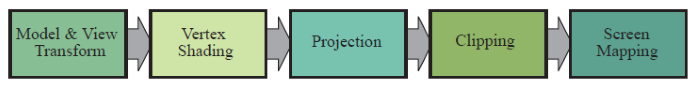
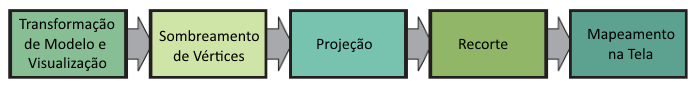
Improves pipeline

diff --git a/classes/pipeline/README.md b/classes/pipeline/README.md
@@ -23,31 +23,36 @@
 ---
 ## Um _pipeline_
 
-1. Divisão de trabalho em etapas
-1. As etapas são executadas em paralelo
-1. Exemplo: pipeline da exploração de diamantes
-  ![](../../images/pipeline-diamante.png)
-  - A velocidade com que se produz diamantes é dada pela velocidade da etapa
-    mais lenta
+1. **Divisão** de trabalho **em etapas**
+1. As etapas são executadas **em paralelo**
+1. Exemplo: pipeline de pacientes em um hospital
+  ![](../../images/pipeline-hospital.png)
+  - A velocidade com que se atende pacientes é dada pela **velocidade da etapa
+    mais lenta**
 
 ---
-## O _pipeline_ gráfico
+## O _pipeline_ **gráfico**
 
 ![](../../images/pipeline-grafico-fases.png)
 
-- É o processo de transformação de um modelo de descrição de objetos (vértices)
-  em uma imagem digital (imagem renderizada na tela)
-- Dividido em três etapas conceituais
+- É o **processo de transformação de um modelo de descrição de objetos** (vértices)
+  **em uma imagem digital** (imagem renderizada na tela)
+- Dividido em três etapas conceituais:
   1. Aplicação
   1. Geometria
   1. Rasterização
+  
 ---
 ## O _pipeline_ gráfico
 
 - Cada etapa pode ser, por si só, outro _pipeline_
-- O tempo de renderização é dado pela velocidade da etapa mais devagar
+- O **tempo de renderização** é dado pela velocidade da etapa mais devagar
   - Depende da cena e de como foi implementada
-
+- Na analogia do hospital:
+  1. Os **vértices** são os **pacientes** que precisam ser renderizados
+  1. Para isso eles precisam passar por algumas etapas, em que **são transformados**
+  1. Os **atendentes/enfermeiros/médicos** são componentes de **_software_ ou _hardware_**
+  
 ---
 # Estágio de **aplicação**
 
@@ -56,14 +61,14 @@
 
 - Controlado pelo desenvolvedor
 - É onde define-se a descrição dos objetos da cena
-  - Basicamente, seu código fonte de um programa em OpenGL
+  - Basicamente, seu **código fonte** de um programa em OpenGL
 - Ao final do estágio, sua saída são as primitivas geométricas a serem
   entregues para o próximo estágio, de geometria
 
 ---
 ## Estágio de **aplicação** (cont.)
 
-- Como este estágio está todo em software, geralmente ele não é subdividido
+- Como este estágio está **completamente em _software_**, geralmente ele não é subdividido
   paralelizado
 - Atividades típicas que executamos neste estágio
   - Cálculo de colisão
@@ -89,7 +94,7 @@
 
 
 ---
-## Geometria &gt;&gt; Transf. de Modelo e visualização
+## Geometria &gt;&gt; (1) Transf. de Modelo e visualização
 
 - Tipicamente, descrevemos os objetos em um sistema de coordenadas local a eles
   - Espaço do objeto
@@ -100,7 +105,7 @@
   ela são exibidos
 
 ---
-## Geometria &gt;&gt; Transf. de Modelo e visualização
+## Geometria &gt;&gt; (1) Transf. de Modelo e visualização
 
 ![](../../images/view-transform.png)
 
@@ -108,7 +113,7 @@
   - Espaço da câmera ou do olho
 
 ---
-## Geometria &gt;&gt; Transf. de Modelo e visualização
+## Geometria &gt;&gt; (1) Transf. de Modelo e visualização
 
 - A **transformação de modelo e visualização**, então, se trata da
   transformação de **diversos sistemas de coordenadas em um sistema comum**
@@ -116,21 +121,21 @@
   coordenadas
 
 ---
-## Geometria &gt;&gt; Sombreamento de vértices
+## Geometria &gt;&gt; (2) Sombreamento de vértices
 
 - <img src="../../images/cena-3d.png" style="float: right; margin-left: 10px; width: 200px;">
-  Para produzir uma cena realística, precisamos usar um conceito de iluminação
+  Para produzir uma cena realística, precisamos usar um conceito de **iluminação**
 - Com os vértices em suas posições em um único sistema de coordenadas, podemos
-  agora definir a contribuição das fontes de luz de cada vértice
-- Ao final do sombreamento, temos cores e coordenadas de textura para cada
-  vértice da cena
+  agora **definir a contribuição das fontes de luz de cada vértice**
+- Ao final do sombreamento, temos **cores e coordenadas de textura para cada
+  vértice** da cena
   - Essa informação será passada para o sub-estágio seguinte
 
 ---
-## Geometria &gt;&gt; Projeção
+## Geometria &gt;&gt; (3) Projeção
 
 - Após o sombreamento, o sistema de renderização realiza uma projeção
-  - Transform o volume de visualização em um cubo unitário com extremos em
+  - Transforma o volume de visualização em um cubo unitário com extremos em
     (-1, -1, -1) e (1, 1, 1)
   - Cubo unitário é chamado de **volume de visualização canônico**
 - Dois métodos de projeção:
@@ -138,12 +143,12 @@
   1. Perspectivo
 
 ---
-## Geometria &gt;&gt; Projeção
+## Geometria &gt;&gt; (3) Projeção
 
 ![](../../images/proj-tipos.png)
 
 ---
-## Geometria &gt;&gt; Projeção
+## Geometria &gt;&gt; (3) Projeção
 
 - Projeção paralela
   - Linhas paralelas continuam paralelas
@@ -156,9 +161,10 @@
   - Dizemos que temos **coordenadas de dispositivo normalizadas**
   - A coordenada Z dos vértices é removida (3D -> 2D), porém armazenada em um
     espaço chamado _Z-buffer_
+    - Por isso precisamos usar `glEnable(GL_DEPTH_TEST)` para usar :O
 
 ---
-## Geometria &gt;&gt; Recorte
+## Geometria &gt;&gt; (4) Recorte
 
 - Apenas as primitivas **dentro do volume de visualização** precisam
   ser renderizadas
@@ -169,7 +175,7 @@
   - Primitivas **parcialmente representadas**: precisam ser **recortadas**
 
 ---
-## Geometria &gt;&gt; Recorte
+## Geometria &gt;&gt; (4) Recorte
 
 ![](../../images/pipeline-recorte.png)
 
@@ -180,7 +186,7 @@
 - Na etapa de recorte, novos vértices podem ser criados
 
 ---
-## Geometria &gt;&gt; Mapeamento de tela
+## Geometria &gt;&gt; (5) Mapeamento de tela
 
 ![](../../images/pipeline-tela.png)
 
@@ -202,13 +208,13 @@
 - Entregaremos a cor a ser definida para cada pixel da janela
 
 ---
-## Rasterização &gt;&gt; Configuração de Triângulos
+## Rasterização &gt;&gt; (1) Configuração de Triângulos
 
 - Neste estágio, informações sobre os triângulos definidos pelos vértices são
   determinadas
 
 ---
-## Rasterização &gt;&gt; _Scan Conversion_
+## Rasterização &gt;&gt; (2) _Scan Conversion_
 
 - Cada pixel que tem seu centro "coberto" por um triângulo é verificado e um
   fragmento é criado
@@ -218,18 +224,18 @@
   advém da interpolação dos três vértices do triângulo
 
 ---
-## Rasterização &gt;&gt; Sombreamento de Pixels
+## Rasterização &gt;&gt; (3) Sombreamento de Pixels
 
 - Para cada pixel que possui um fragmento, devemos obter sua cor
 - Várias técnicas podem ser usadas aqui
   - Sombreamento de _Phong_
   - Sombreamento de _Goraud_
-  - Texturização etc.
-
-    ![](../../images/texturizacao.png)
+  - <img src="../../images/texturizacao.png" style="float:right;">
+    Texturização etc.
+    
 
 ---
-## Rasterização &gt;&gt; Fusão
+## Rasterização &gt;&gt; (4) Fusão
 
 - Do estágio anterior, podemos ter vários fragmentos por pixel (e.g.,
   triângulos sobrepostos)

diff --git a/README.md b/README.md
@@ -85,8 +85,14 @@ e Tridimensionais.
 - [OpenGL Hands-on - Parte 3](classes/opengl-handson3/) (24/03/2015)
 - [OpenGL Hands-on - Parte 4](classes/opengl-handson4/) (26/03/2015)
 - [Cê](classes/c) (31/03/2015)
+
+---
+# Aulas (p. 2)
+
 - [Geometria](classes/geometry) (07/04/2015)
 - [Transformações Geométricas](classes/transforms) (09/04/2015)
+- [Orientação e Mudança de Coordenadas](classes/baseorientation) (16/04/2015)
+- [O Pipeline Gráfico](classes/pipeline) (23/04/2015)
 
 ---
 # Atividades Avaliativas
